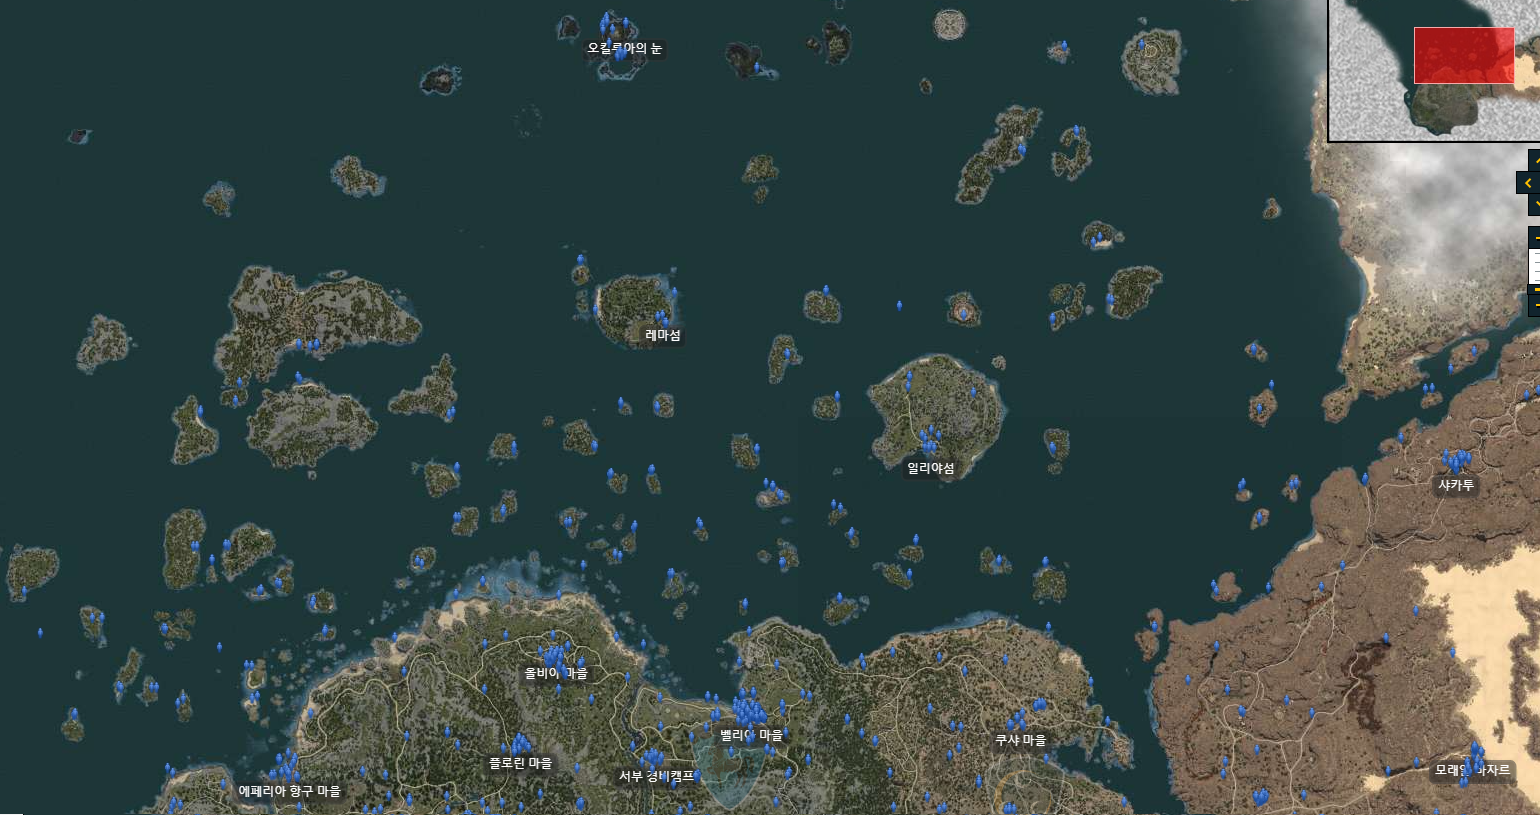
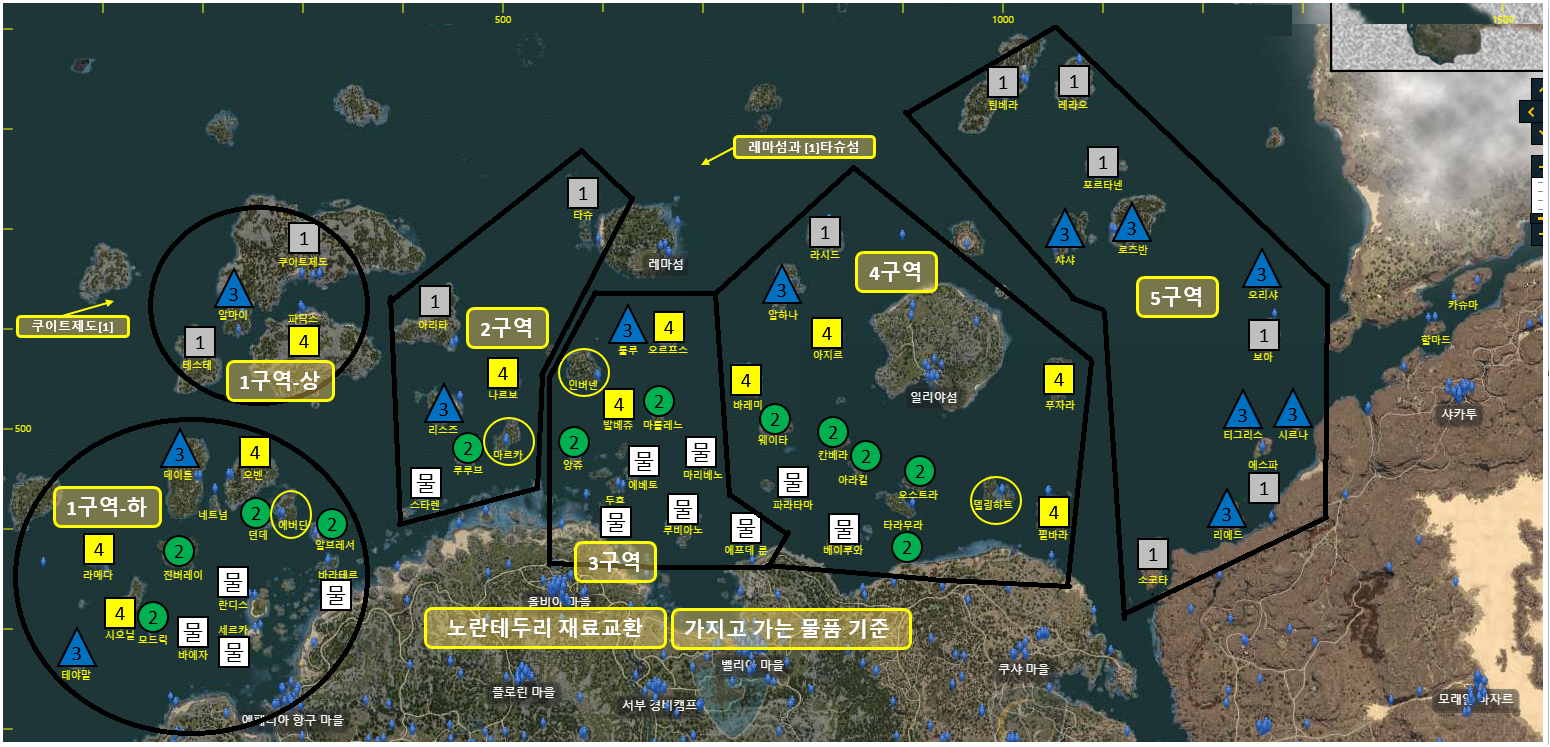
dfsfsf

diff --git a/portal/assets/js/black.js b/portal/assets/js/black.js
@@ -1,13 +1,135 @@
-function 섬이름검색() {
-  var 검색명=document.getElementById('섬이름검색명').value; //인풋의 value
-  alert('input박스의.value : ' + 검색명);
+var 구역1상=['쿠이트','알마이','테스테','파딕스'];
+var 구역1하=['데이튼','오벤','네트넘','던데','에버딘','알브레서','바라테르','란디스','세르카','진버레이','바에자','모드릭','시오닐','라메다','테야말'];
+var 구역2=['타슈','아리타','나르보','리스즈','마르카','루루브','스타렌'];
+var 구역3=['툴루','오르프스','인버넨','발베쥬','마를레느','마리베노','에프데룬','루비아노','에베토','두흐','앙쥬'];
+var 구역4=['라시드','알하나','아지르','바레미','웨이타','칸베라','아라킬','오스트라','델링하트','필바라','푸자라','파라타마','베이루와','타라무라'];
+var 구역5=['틴베라','레라오','포르타넨','샤샤','로즈반','오리샤','보아','티그리스','시르나','에스파','리에드','소코타'];
+var 일반물품섬='_바에자_세르카_란디스_바라테르_스타렌_두흐_에베토_마리베노_에프데룬_베이루와_파라타마_';
+var 단계1섬='_쿠이트_테스테_타슈_아리타_라시드_포르타넨_보아_에스파_소코타_틴베라_레라오_';
+var 단계2섬='_모드릭_진버레이_던데_알브레서_루루브_앙쥬_마를레느_웨이타_칸베라_아라킬_오스트라_타라무라_';
+var 단계3섬='_데이튼_테야말_리스즈_툴루_알하나_샤샤_로즈반_오리샤_티그리스_시르나_리에드_'
+var 단계4섬='_오벤_파딕스_라메다_시오닐_나르보_오르프스_발베쥬_바레미_아지르_푸자라_필바라_';
+var 재료교환섬='_에버딘_마르카_인버넨_델링하트_';
+function textarea보기숨기기() {
+  if (document.querySelector('#textarea기능버튼').innerHTML=='textarea숨기기') {
+    document.querySelector('#textarea').classList.add('d-none');
+    document.querySelector('#textarea기능버튼').innerHTML='textarea보기';
+  } else {
+    document.querySelector('#textarea').classList.remove('d-none');
+    document.querySelector('#textarea기능버튼').innerHTML='textarea숨기기';
+  }
+} 
+function 섬이름검색1() {
+  //버튼 누를때만 작동되네?
+  document.querySelector('#div섬구역1').innerHTML='';
+  var text=document.querySelector('#input섬이름1').value;
+  var result='';
+  if (구역1하.find(element => element==text)) {result="1구역하"};
+  if (구역1상.find(element => element==text)) {result="1구역상"};
+  if (구역2.find(element => element==text)) {result="2구역"};
+  if (구역3.find(element => element==text)) {result="3구역"};
+  if (구역4.find(element => element==text)) {result="4구역"};
+  if (구역5.find(element => element==text)) {result="5구역"};
+  
+  if (일반물품섬.search(text)>-1) {result=result + ',일반>1단'};
+  if (단계1섬.search(text)>-1) {result=result + ',1단계'};
+  if (단계2섬.search(text)>-1) {result=result + ',2단계'};
+  if (단계3섬.search(text)>-1) {result=result + ',3단계'};
+  if (단계4섬.search(text)>-1) {result=result + ',4단계'};
+  if (재료교환섬.search(text)>-1) {result=result + ',재료교환'};
 
+  document.querySelector('#div섬구역1').innerHTML=result;
 }
+function 섬이름검색2() {
+  //버튼 누를때만 작동되네?
+  document.querySelector('#div섬구역2').innerHTML='';
+  var text=document.querySelector('#input섬이름2').value;
+  var result='';
+  if (구역1하.find(element => element==text)) {result="1구역하"};
+  if (구역1상.find(element => element==text)) {result="1구역상"};
+  if (구역2.find(element => element==text)) {result="2구역"};
+  if (구역3.find(element => element==text)) {result="3구역"};
+  if (구역4.find(element => element==text)) {result="4구역"};
+  if (구역5.find(element => element==text)) {result="5구역"};
+  
+  if (일반물품섬.search(text)>-1) {result=result + ',일반>1단'};
+  if (단계1섬.search(text)>-1) {result=result + ',1단계'};
+  if (단계2섬.search(text)>-1) {result=result + ',2단계'};
+  if (단계3섬.search(text)>-1) {result=result + ',3단계'};
+  if (단계4섬.search(text)>-1) {result=result + ',4단계'};
+  if (재료교환섬.search(text)>-1) {result=result + ',재료교환'};
+
+  document.querySelector('#div섬구역2').innerHTML=result;
+}
+function 섬이름검색3() {
+  //버튼 누를때만 작동되네?
+  document.querySelector('#div섬구역3').innerHTML='';
+  var text=document.querySelector('#input섬이름3').value;
+  var result='';
+  if (구역1하.find(element => element==text)) {result="1구역하"};
+  if (구역1상.find(element => element==text)) {result="1구역상"};
+  if (구역2.find(element => element==text)) {result="2구역"};
+  if (구역3.find(element => element==text)) {result="3구역"};
+  if (구역4.find(element => element==text)) {result="4구역"};
+  if (구역5.find(element => element==text)) {result="5구역"};
+  
+  if (일반물품섬.search(text)>-1) {result=result + ',일반>1단'};
+  if (단계1섬.search(text)>-1) {result=result + ',1단계'};
+  if (단계2섬.search(text)>-1) {result=result + ',2단계'};
+  if (단계3섬.search(text)>-1) {result=result + ',3단계'};
+  if (단계4섬.search(text)>-1) {result=result + ',4단계'};
+  if (재료교환섬.search(text)>-1) {result=result + ',재료교환'};
+
+  document.querySelector('#div섬구역3').innerHTML=result;
+}
+function 섬이름검색4() {
+  //버튼 누를때만 작동되네?
+  document.querySelector('#div섬구역4').innerHTML='';
+  var text=document.querySelector('#input섬이름4').value;
+  var result='';
+  if (구역1하.find(element => element==text)) {result="1구역하"};
+  if (구역1상.find(element => element==text)) {result="1구역상"};
+  if (구역2.find(element => element==text)) {result="2구역"};
+  if (구역3.find(element => element==text)) {result="3구역"};
+  if (구역4.find(element => element==text)) {result="4구역"};
+  if (구역5.find(element => element==text)) {result="5구역"};
+  
+  if (일반물품섬.search(text)>-1) {result=result + ',일반>1단'};
+  if (단계1섬.search(text)>-1) {result=result + ',1단계'};
+  if (단계2섬.search(text)>-1) {result=result + ',2단계'};
+  if (단계3섬.search(text)>-1) {result=result + ',3단계'};
+  if (단계4섬.search(text)>-1) {result=result + ',4단계'};
+  if (재료교환섬.search(text)>-1) {result=result + ',재료교환'};
+
+  document.querySelector('#div섬구역4').innerHTML=result;
+}
+function 섬이름검색5() {
+  //버튼 누를때만 작동되네?
+  document.querySelector('#div섬구역5').innerHTML='';
+  var text=document.querySelector('#input섬이름5').value;
+  var result='';
+  if (구역1하.find(element => element==text)) {result="1구역하"};
+  if (구역1상.find(element => element==text)) {result="1구역상"};
+  if (구역2.find(element => element==text)) {result="2구역"};
+  if (구역3.find(element => element==text)) {result="3구역"};
+  if (구역4.find(element => element==text)) {result="4구역"};
+  if (구역5.find(element => element==text)) {result="5구역"};
+  
+  if (일반물품섬.search(text)>-1) {result=result + ',일반>1단'};
+  if (단계1섬.search(text)>-1) {result=result + ',1단계'};
+  if (단계2섬.search(text)>-1) {result=result + ',2단계'};
+  if (단계3섬.search(text)>-1) {result=result + ',3단계'};
+  if (단계4섬.search(text)>-1) {result=result + ',4단계'};
+  if (재료교환섬.search(text)>-1) {result=result + ',재료교환'};
+
+  document.querySelector('#div섬구역5').innerHTML=result;
+}
+
 function 해양죄표와섬이름() {
   const canvas = document.getElementById('myCanvas');
   const ctx = canvas.getContext("2d");
   var x=0;
-  ctx.font = "Arial bold 10px Arial, sans-serif"; //italic Arial서체 없을 경우, sans-serif 적용
+  ctx.font = "Arial bold 12px Arial, sans-serif"; //italic Arial서체 없을 경우, sans-serif 적용
   ctx.fillStyle = 'yellow';
   ctx.textAlign = 'center';
   ctx.strokeStyle='yellow';

diff --git a/black.html b/black.html
@@ -123,7 +123,7 @@
             style="text-decoration-line:underline; text-decoration-color:blue;text-decoration-style:wavy;">
             물교단계별 섬이름과 품목 [인벤] 마지막 주화런</li>
             <li class="파일연결" title="S1_물교창고관리" style="text-decoration-line:underline; text-decoration-color:blue;text-decoration-style:wavy;">물교창고관리, 14*4=56, 5단14종, 주화런 안카도</li>
-            <li class="파일연결" title="S1_해역사진">해역사진</li>
+            <li class="파일연결" title="S1_해역사진" style="background-color: cadetblue;">해역사진</li>
             <li class="파일연결" title="S1_까마귀주화상점">까마귀 주화 상점, 레마섬, 까마귀둥지 [온기를 품은 블랙스톤(10주화), 한기가 서린 블랙스톤(20주화)]</li>
           </div>
         </div>
@@ -307,16 +307,46 @@
     <img src="portal/images/black_문서/S1_물교루트인벤.png" alt="이미지없음">
   </div>
   <div id="S1_해역사진">
-    <h6>▢ 우측 짤린곳, 더코섬, 안카도 내항, 하코번섬
-      <button onclick="해양죄표와섬이름();">섬이름보기</button>
+    <h6>▢ 우측 짤린곳, 할마드, 카슈마, 더코, 안카도 내항, 하코번섬</h6>
+    <h6 id="섬이름검색결과" style="position: relative;">▢ 섬이름 완전일치시에 <span class="a_형식">구역과 가져갈 물품 단계</span> 표시, <button id="textarea기능버튼" onclick="textarea보기숨기기()">textarea숨기기</button></h6>
+    <textarea id="textarea" style="position: absolute; width:700px;height:300px;top:175px;"></textarea>
+    <!-- <canvas id="myCanvas" width="1540" height="850" style="position: absolute;"></canvas> -->
+    <div id="리스너용섬이름검색">
       <form class="d-inline-block" onsubmit="return false">
-        <input id="섬이름검색명" type = "text" maxlength = "10" style="width:130px;">
+        <input onchange="섬이름검색1()" id="input섬이름1" type = "text" maxlength = "10" style="width:80px;">
       </form>
-      <button onclick="섬이름검색();">섬이름검색</button>
-    </h6>
-    <h6 id="섬이름검색결과">▢ 섬이름 검색결과 나오는 곳 : </h6>
-    <canvas id="myCanvas" width="1540" height="850" style="position: absolute;"></canvas>
-    <img src="portal/images/black_문서/S1_해역사진.png" alt="이미지없음">
+      <button id="섬이름검색버튼1" onclick="섬이름검색1()">검색</button>
+      <div id="div섬구역1" style="width:130px;height:30px;vertical-align: top; border:1px solid black;display:inline-block; background-color: rgb(189, 163, 163);"></div><span>, </span>
+
+      <form class="d-inline-block" onsubmit="return false">
+        <input onchange="섬이름검색2()" id="input섬이름2" type = "text" maxlength = "10" style="width:80px;">
+      </form>
+      <button id="섬이름검색버튼2" onclick="섬이름검색2()">검색</button>
+      <div id="div섬구역2" style="width:130px;height:30px;vertical-align: top; border:1px solid black;display:inline-block; background-color: gray;"></div><span>, </span>
+
+      <form class="d-inline-block" onsubmit="return false">
+        <input onchange="섬이름검색3()" id="input섬이름3" type = "text" maxlength = "10" style="width:80px;">
+      </form>
+      <button id="섬이름검색버튼3" onclick="섬이름검색3()">검색</button>
+      <div id="div섬구역3" style="width:130px;height:30px;vertical-align: top; border:1px solid black;display:inline-block; background-color: gray;"></div><span>, </span>
+
+      <form class="d-inline-block" onsubmit="return false">
+        <input onchange="섬이름검색4()" id="input섬이름4" type = "text" maxlength = "10" style="width:80px;">
+      </form>
+      <button id="섬이름검색버튼4" onclick="섬이름검색4()">검색</button>
+      <div id="div섬구역4" style="width:130px;height:30px;vertical-align: top; border:1px solid black;display:inline-block; background-color: gray;"></div><span>, </span>
+
+      <form class="d-inline-block" onsubmit="return false">
+        <input onchange="섬이름검색5()" id="input섬이름5" type = "text" maxlength = "10" style="width:80px;">
+      </form>
+      <button id="섬이름검색버튼5" onclick="섬이름검색5()">검색</button>
+      <div id="div섬구역5" style="width:130px;height:30px;vertical-align: top; border:1px solid black;display:inline-block; background-color: gray;"></div><span>, </span>
+    </div>
+
+    <img style="z-index: 2222;" src="portal/images/black_문서/S1_해역사진.png" alt="이미지없음">
+    <br><br><br><br><br><br><br><br><br><br><br><br><br><br><br><br><br><br><br><br><br><br><br><br><br><br><br><br><br><br><br><br><br><br><br>
+
+
   </div>
   <div id="S1_까마귀주화상점">
     <h6>▢ 레마섬과 까마귀 둥지, 온기를 품은 블랙스톤(10주화), 한기가 서린 블랙스톤(20주화)</h6>
